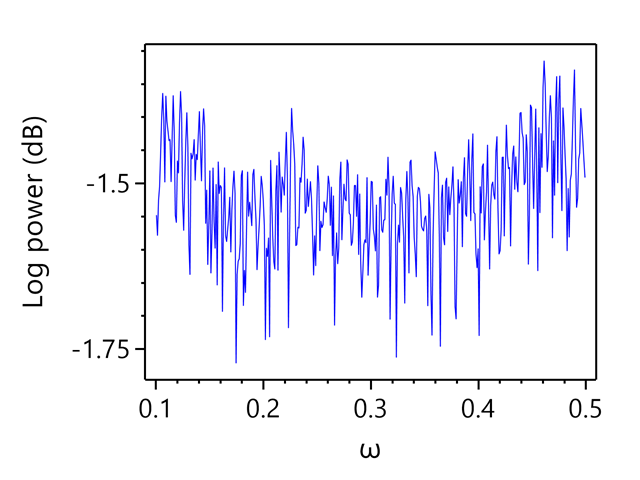
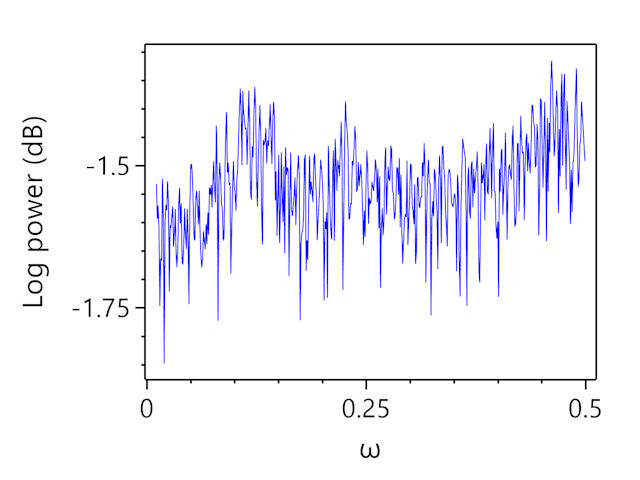
updates in css, added bookmark, updated henon post

diff --git a/_sass/_page.scss b/_sass/_page.scss
@@ -20,23 +20,23 @@
                         color: #223253;
                     }
                 }
-    
-                .pageTag a {
-                    background-color: #c6cbe9;
-                    color: #fff;
+            }
 
-                    &:hover {
-                        background-color: #c0ddc7;
-                    }
+            .pageTag a {
+                background-color: #c6cbe9;
+                color: #fff;
+
+                &:hover {
+                    background-color: #c0ddc7;
                 }
+            }
 
-                .categories a {
-                    background-color: #9e9d9d;
-                    color: #fff;
+            .categories a {
+                background-color: #9e9d9d;
+                color: #fff;
 
-                    &:hover {
-                        background-color: #b6b6b9;
-                    }
+                &:hover {
+                    background-color: #b6b6b9;
                 }
             }
         }
@@ -67,23 +67,23 @@
                         color: #779adf;
                     }
                 }
-    
-                .pageTag a {
-                    background-color: #585b66;
-                    color: #c3c3c3;
+            }
 
-                    &:hover {
-                        background-color: #7e8291;
-                    }
+            .pageTag a {
+                background-color: #585b66;
+                color: #c3c3c3;
+
+                &:hover {
+                    background-color: #7e8291;
                 }
+            }
 
-                .categories a {
-                    background-color: #4a4a4a;
-                    color: #c3c3c3;
+            .categories a {
+                background-color: #4a4a4a;
+                color: #c3c3c3;
 
-                    &:hover {
-                        background-color: #666666;
-                    }
+                &:hover {
+                    background-color: #666666;
                 }
             }
         }
@@ -112,7 +112,7 @@
         padding: 20px 30px;
         line-height: 1.6;
         font-size: 16px;
-        
+
         >h1 {
             margin-bottom: -10px;
         }
@@ -144,32 +144,34 @@
                 i {
                     margin-right: 5px;
                 }
-                .categories {
-                    padding: 0 15px;
-                    i {
-                        color: #9e9d9d;
-                    }
-                    a {
-                        padding: 0 5px;
-                        font-size: 90%;
-                        transition: 0.3s ease;
+            }
+        }
 
-                    }
-                }
-                .pageTag {
-                    i {
-                        color: #c6cbe9;
-                    }
-                    a {
+        .categories {
 
-                        // border: 1px solid #aaa;
-                        padding: 0 5px;
-                        border-radius: 4px;
-                        font-size: 90%;
-                        transition: 0.3s ease;
+            padding: 0 15px;
+            i {
+                color: #9e9d9d;
+            }
+            a {
+                padding: 0 5px;
+                font-size: 90%;
+                transition: 0.3s ease;
 
-                    }
-                }
+            }
+        }
+        .pageTag {
+            i {
+                color: #c6cbe9;
+            }
+            a {
+
+                // border: 1px solid #aaa;
+                padding: 0 5px;
+                border-radius: 4px;
+                font-size: 90%;
+                transition: 0.3s ease;
+
             }
         }
     }

diff --git a/_layouts/post.html b/_layouts/post.html
@@ -16,18 +16,23 @@ layout: default
                 {% endif %}
             </div>
 
-            <div class="label-card">
-                {% if page.meta %}<i class="fa fa-key"></i>{{ page.meta }}  {% endif %}
-            </div>
+            <br/>
 
             <div class="label-card">
-            {% include category.html %}
+                {% include tag.html %}
             </div>
 
+            <div class="label-card label-category">
+                {% include category.html %}
+            </div>
+
+            {% if page.meta %}
+            <br/>
+            <hr>
             <div class="label-card">
-            {% include tag.html %}
+                <i class="fa fa-key"></i>{{ page.meta }}  
             </div>
-
+            {% endif %}
         </div>
         <hr>
         <article itemscope itemtype="http://schema.org/BlogPosting">

diff --git a/index.html b/index.html
@@ -21,16 +21,15 @@ layout: default
                         {% if post.author %}<i class="fa fa-user"></i>{{ post.author }}
                         {% endif %}
                     </div>
-                    <div class="label-card">
-                        {% if page.meta %}<i class="fa fa-key"></i>{{ page.meta }}  {% endif %}
-                    </div>
-
-                    <div class="label-card">
-                    {% include category.html %}
-                    </div>
+                    
+                    <br/>
 
                     <div class="label-card">
                     {% include tag.html %}
+                    </div>
+
+                    <div class="label-card label-category">
+                      {% include category.html %}
                     </div>
                 </div>
                 <div class="excerpt">

diff --git a/_sass/_post.scss b/_sass/_post.scss
@@ -8,6 +8,7 @@
         .label-card {
             float: left;
             margin-right: 15px;
+            
             .point {
                 padding: 0 10px;
                 color: #9d9d9d;
@@ -16,6 +17,10 @@
                 padding-right: 5px;
                 color: #6b6a6a;
             }
+        }
+
+        .label-category {
+            float: right;
         }
     }
     a {

diff --git a/_sass/_index.scss b/_sass/_index.scss
@@ -72,6 +72,10 @@
                             color: #6b6a6a;
                         }
                     }
+
+                    .label-category {
+                        float: right;
+                    }
                     .categories {
                         padding: 0;
                     }

diff --git a/_layouts/page.html b/_layouts/page.html
@@ -20,8 +20,7 @@ layout: default
                 <ul id="content-side" class="content-ul">
                 </ul>
             </div>
-            <!-- 其他div框放到这里 -->
-            <!-- <div class="side">bbbb</div> -->
+
         </div>
     </div>
 </div>

diff --git a/_sass/_reset.scss b/_sass/_reset.scss
@@ -101,7 +101,7 @@ html {
 }
 
 body {
-    font-family: 'Sansation',sans-serif;
+    font-family: 'Sansation',serif;
     font-size-adjust: 0.55;
     
     position: relative;

diff --git a/page/2tags.html b/page/2tags.html
@@ -55,7 +55,7 @@ type: page
 
                 </ul>
             </div>
-            <!-- <div class="side">bbbb</div> -->
+
         </div>
     </div>
 </div>

diff --git a/_posts/2024-09-30-henon-map.md b/_posts/2024-09-30-henon-map.md
@@ -4,8 +4,8 @@ title:      "Hénon map"
 date:       2024-09-30 10:20:00
 categories: Science
 tags:       science chaos
-author:     Dobriyanchik
 mathjax:    true
+meta: 2024-11-02 > updated plots (fft, wavelet, bifurcation), referenced original paper.
 ---
 
 * content
@@ -31,21 +31,21 @@ Default parameters: $a=1.4, b=0.3$
 Initial conditions: $x_0=0, y_0=0$
 
 
-# Bifurcation diagram
+## Bifurcation diagram
 
 | Bifurcation diagram for parameter a | Bifurcation diagram for parameter b |
 |-------------------------------------|-------------------------------------|
-|![](/assets/sci-data/henon_bifur_a.png)|![](/assets/sci-data/henon_bifur_b.png)|
+|![](/assets/sci-data/henon_bifur_a.jpg)|![](/assets/sci-data/henon_bifur_b.jpg)|
 
-# Frequency analysis
+## Frequency analysis
 
 | FFT Power spectrum | Wavelet |
 |--------------------|---------|
-|![](/assets/sci-data/henon_fft.png)|![](/assets/sci-data/henon_wavelet.png)|
+|![](/assets/sci-data/henon_fft.png)|![](/assets/sci-data/henon_wavelet.jpg)|
 
 Power spectrum of the map is pretty noisy and it's hard to highlingt any specific frequency but power of edges of the spectrum is higher, the same could be seen on wavelet plot where lighter areas indicate higher power of frequencies.
  
-# Lyapunov exponents
+## Lyapunov exponents
 Lyapunov exponents spectrum of the map consists of two values. For default parameters LLE is positive and the second exponent is negative and spectrum values are: 
 $$λ_1 = 0.4192, λ_2 = −1.6232$$ 
 what indicates chaotic nature of the system. Lyapunov (or Kaplan-Yorke) dimension is $1.2583$.
@@ -59,3 +59,7 @@ But more interesting is to see dynamics of Lyapunov exponents on driving paramet
 The map of lyapunov exponents spectrum shows that the significant part of area of driving parameters leads to absence of chaos, where no positive LEs exist in spectrum, the area of driving parameters is pretty small (white color indicates solution decay)
 
 ![Henon attractor](/assets/sci-data/henon_lyapunov_map_a_b.png)
+
+## References
+
+ - M. Hénon (1976). ["A two-dimensional mapping with a strange attractor"](http://projecteuclid.org/euclid.cmp/1103900150). Communications in Mathematical Physics. 50 (1): 69–77.

diff --git a/_posts/2024-10-09-gui-test-automation-approach.md b/_posts/2024-10-09-gui-test-automation-approach.md
@@ -2,9 +2,8 @@
 layout:     post
 title:      "GUI test automation approach"
 date:       2024-10-09 13:00:00
-categories: Automated-Testing
-tags:       coding automated-testing gui unicorn-taf
-author:     Dobriyanchik
+categories: Automated_testing
+tags:       coding .net automated-testing gui unicorn-taf
 ---
 
 * content

diff --git a/_posts/2024-10-14-test-framework-for-test-automation.md b/_posts/2024-10-14-test-framework-for-test-automation.md
@@ -2,9 +2,8 @@
 layout:     post
 title:      "Test framework for test automation"
 date:       2024-10-14 19:30:00
-categories: Automated-Testing
-tags:       coding automated-testing unicorn-taf
-author:     Dobriyanchik
+categories: Automated_testing
+tags:       coding .net automated-testing unicorn-taf
 ---
 
 * content

diff --git a/page/3bookmarks.md b/page/3bookmarks.md
@@ -9,6 +9,10 @@ type: page
 * content
 {:toc}
 
+## .NET
+
+ - [Meziantou's blog](https://www.meziantou.net)
+
 ## Draw & Design
 
  - [ASCIIFlow](https://asciiflow.com/#/)
